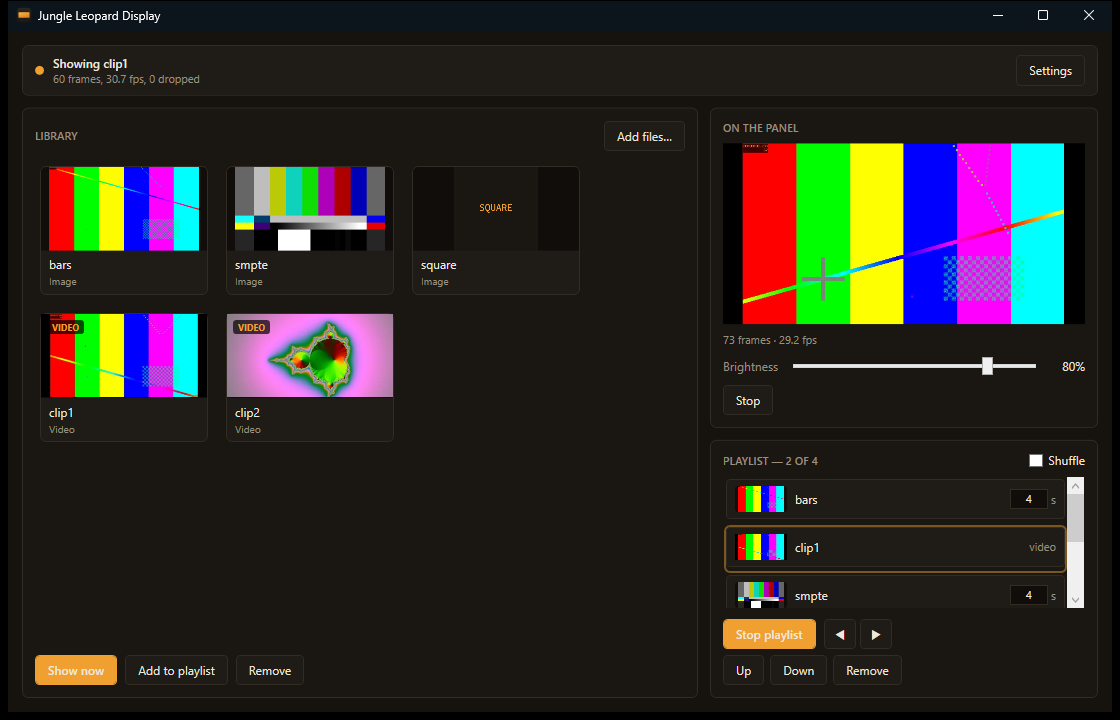
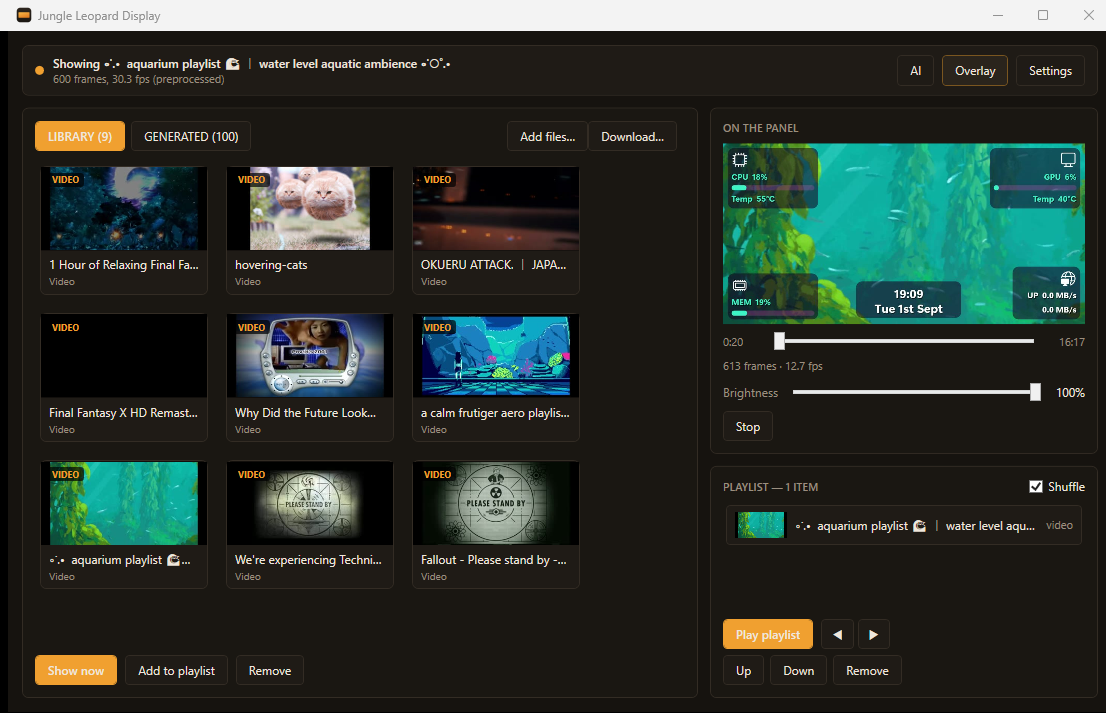
Reshoot the screenshots for what the app is now
Both were taken before overlays existed. The main window has an Overlay
button it did not have and a panel preview showing an overlay on live
video; Settings has a SENSORS section, shown here reporting what actually
connected. The editor had no picture at all, so there is one now.

Captured with PrintWindow rather than a screen grab, so nothing behind
the window bleeds through a rounded corner, and at the default rotation
rather than this machine's 180, since the preview shows the frame as
sent — which is upside down when the panel is mounted inverted.

Taking them turned up a small omission: the editor's hotkey line listed
every shortcut except Ctrl+Z, which had just been added. It says so now.

Also corrects the download size. It has claimed about 220 KB since before
1.4.0 bundled yt-dlp, which is 17 MB of the 17.2 MB zip.

Claude-Session: https://claude.ai/code/session_01KgSghkxPaNWtF135Wd2wno

diff --git a/JLDisplayManager/Views/OverlayEditorWindow.xaml b/JLDisplayManager/Views/OverlayEditorWindow.xaml
@@ -215,7 +215,7 @@
 
                     <TextBlock x:Name="CanvasHint" Grid.Row="3" Margin="0,10,0,0" FontSize="11"
                                TextWrapping="Wrap" Foreground="{StaticResource TextDim}"
-                               Text="Drag to move, handles to resize. Arrows nudge by 1, Shift+arrow by 10, Alt ignores snapping. Del removes · Ctrl+D duplicates · Ctrl+↑/↓ reorders · Ctrl+H hides · Ctrl+L locks · Tab cycles · Esc deselects."/>
+                               Text="Drag to move, handles to resize. Arrows nudge by 1, Shift+arrow by 10, Alt ignores snapping. Del removes · Ctrl+D duplicates · Ctrl+↑/↓ reorders · Ctrl+H hides · Ctrl+L locks · Ctrl+Z undoes · Tab cycles · Esc deselects."/>
                 </Grid>
             </Border>
 

diff --git a/README.md b/README.md
@@ -43,8 +43,9 @@ without it, calibration reports elapsed time instead of progress.
 
 A portable x64 build is attached to each [release][releases]: unzip anywhere and
 run, no installer and no registry keys. It carries the tray app, the CLI and the
-native core — about 220 KB — and still wants the two prerequisites above, since
-neither the .NET runtime nor ffmpeg is bundled.
+native core — under a megabyte between them — plus `yt-dlp.exe`, which is most of
+the download. It still wants the two prerequisites above, since neither the .NET
+runtime nor ffmpeg is bundled.
 
 [releases]: https://github.com/senesees/Jungle-Leopard-Display-TZMRIT-PF360-LCD/releases
 
@@ -258,7 +259,11 @@ than something bolted alongside it.
 ### Layers
 
 **Overlay** — on the tray menu, or the button in the main window — opens the
-editor. A profile is a stack of layers
+editor.
+
+![The overlay editor](docs/editor.png)
+
+A profile is a stack of layers
 over the 960×480 surface, each anchored to a corner, edge or the centre so a
 readout pinned bottom-right stays there.
 
